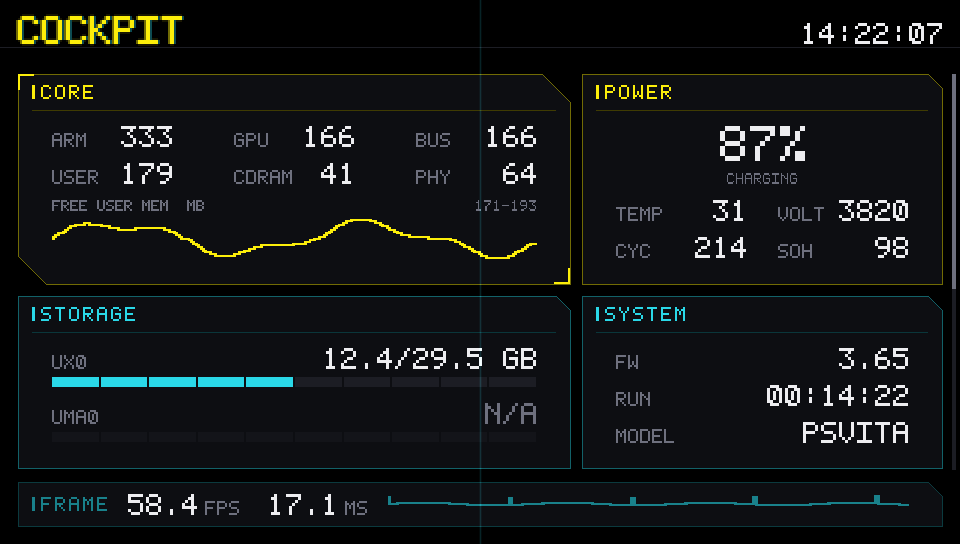
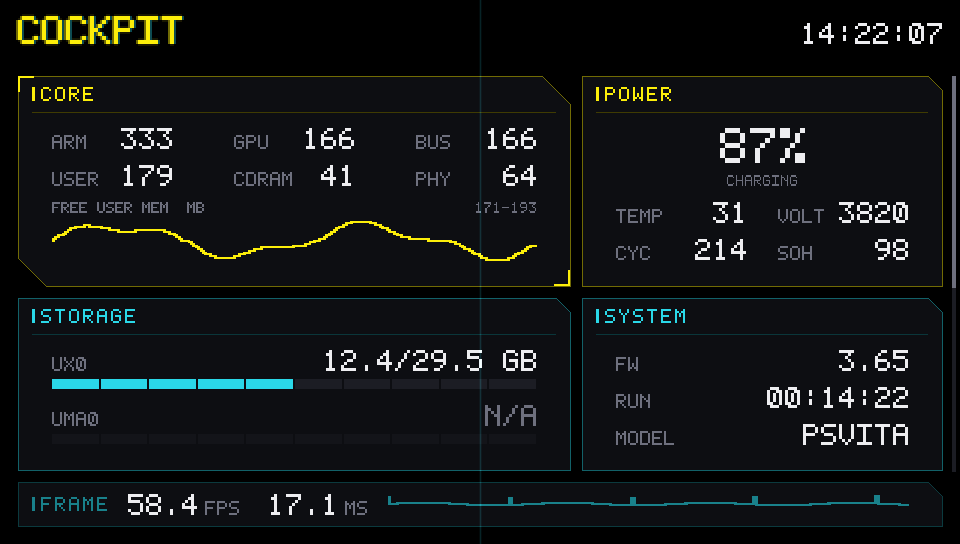
Inset the scroll band and drop the header hairline
CORE and POWER began exactly at the viewport top, where the 2 px outline
was half-clipped by the scissor, so the panels looked like they slid under
the header. The band now starts at 64, eight pixels below the hazard strip,
and carries a 12 px inset: panels begin at 76 with whole outlines, and both
panel rows still fit at scroll 0. The scroll range is unchanged because
VIEW_H grows by the inset.

The 1 px C_HAIR rule under the clock read as an unintended divider. The
hazard strip is now the header's only rule, and only on a fault. The
scrollbar track follows the content top rather than the band top.

Tests: 87 checks. Preview draw calls drop by one with the hairline gone.

diff --git a/vita-cockpit/src/app/screen.c b/vita-cockpit/src/app/screen.c
@@ -13,23 +13,24 @@
 
 static void draw_scrollbar(float scroll)
 {
-    int canvas_h = layout_canvas_height();
+    int total_h = layout_canvas_height() + VIEW_TOP_GAP;
+    float max_scroll = (float)layout_max_scroll();
 
-    if (canvas_h <= VIEW_H)
+    if (max_scroll <= 0.0f)
         return;
 
-    float track_h = (float)VIEW_H;
-    float thumb_h = track_h * (float)VIEW_H / (float)canvas_h;
-    float max_scroll = (float)layout_max_scroll();
-    float t = max_scroll > 0.0f ? scroll / max_scroll : 0.0f;
+    float track_y = (float)(VIEW_Y + VIEW_TOP_GAP);
+    float track_h = (float)(VIEW_H - VIEW_TOP_GAP);
+    float thumb_h = track_h * track_h / (float)total_h;
+    float t = scroll / max_scroll;
 
     if (t < 0.0f)
         t = 0.0f;
     if (t > 1.0f)
         t = 1.0f;
 
-    draw_rect(SCROLLBAR_X, (float)VIEW_Y, SCROLLBAR_W, track_h, C_HAIR);
-    draw_rect(SCROLLBAR_X, (float)VIEW_Y + t * (track_h - thumb_h), SCROLLBAR_W,
+    draw_rect(SCROLLBAR_X, track_y, SCROLLBAR_W, track_h, C_HAIR);
+    draw_rect(SCROLLBAR_X, track_y + t * (track_h - thumb_h), SCROLLBAR_W,
               thumb_h, C_DIM);
 }
 
@@ -48,7 +49,7 @@ void screen_draw(float t, float scroll)
         const PanelSlot *slot = &g_layout[i];
 
         Rect r = slot->rect;
-        r.y += (float)VIEW_Y - scroll;
+        r.y += (float)(VIEW_Y + VIEW_TOP_GAP) - scroll;
 
         /*
          * Off the band: the scissor would discard every pixel, so skip the

diff --git a/vita-cockpit/src/gfx/layout.h b/vita-cockpit/src/gfx/layout.h
@@ -18,9 +18,18 @@
  * the header or the status strip (D45).
  */
 #define VIEW_X 0
-#define VIEW_Y 74
+#define VIEW_Y 64
 #define VIEW_W 960
-#define VIEW_H 396
+#define VIEW_H 408
+
+/*
+ * Space between the top of the scrolling band and the first panel. A panel
+ * outline is 2 px thick, so a panel starting exactly at the band edge had its
+ * upper half clipped and looked like it began under the header. The header's
+ * painted content ends at the hazard strip (y 56); VIEW_Y leaves 8 px of air
+ * below it, and this inset keeps the panel outline whole.
+ */
+#define VIEW_TOP_GAP 12
 
 /* Distance from the screen edge to the panel area. */
 #define MARGIN 18

diff --git a/vita-cockpit/src/ui/header.c b/vita-cockpit/src/ui/header.c
@@ -20,7 +20,6 @@
 
 #define CLOCK_Y 23.0f
 
-#define HAIRLINE_Y 47.0f
 #define HAZARD_Y 48.0f
 #define HAZARD_H 8.0f
 
@@ -113,8 +112,6 @@ void header_draw(void)
 {
     draw_wordmark();
     draw_clock();
-
-    draw_rect(0.0f, HAIRLINE_Y, (float)SCREEN_W, 1.0f, C_HAIR);
 
     /* D15: only ever drawn for a real fault, and it never reflows the layout. */
     if (g_metrics.alert)

diff --git a/vita-cockpit/src/panels/registry.c b/vita-cockpit/src/panels/registry.c
@@ -95,7 +95,7 @@ int layout_canvas_height(void)
 
 int layout_max_scroll(void)
 {
-    int max = layout_canvas_height() - VIEW_H;
+    int max = VIEW_TOP_GAP + layout_canvas_height() - VIEW_H;
 
     return max > 0 ? max : 0;
 }

diff --git a/PROJECTS.md b/PROJECTS.md
@@ -23,7 +23,7 @@ after every job** — a job is not finished until this file reflects it.
 |---|---|---|---|---|
 | `vita-cap-test` | `built` | 2026-11-02 — artifact renamed to `cap-test-v<version>-b<build>.vpk` with an auto-incrementing build number | Run on hardware; confirm I/O, PCM audio, WiFi/DNS/HTTP | Unsafe `...0001`. 2.6 MB VPK. |
 | `vita-kernel-demo` | `built` | 2026-11-02 — artifact renamed to `kernel-demo-v<version>-b<build>.vpk`; the VPK CMake target is now interpolated from the artifact name | On-demand load test; confirm hook UID and the open counter | Not in `*KERNEL`. 3.65 NID unverified. |
-| `vita-cockpit` | `verified` | 2026-11-02 — plugin ledger groups by load target (D51) and prints N/A for unknown descriptions (D52); the 19-entry config shows KERNEL 9 / SYSTEM 8 / SYSTEM APPS 1 / ALL TITLES 1 | Flash b12 and confirm the grouped ledger and N/A rows on the OLED | `UNSAFE` default. 87 host checks. A 19-row render is 4,423 draw calls. |
+| `vita-cockpit` | `verified` | 2026-11-02 — UI fix (D53): header hairline removed and the scroll band inset 12 px, so the CORE/POWER outlines are whole and both panel rows fit at scroll 0 | Flash b13 and check the top gap, the missing divider, and the grouped ledger on the OLED | `UNSAFE` default. 87 host checks. 4,423 draw calls at 19 rows. |
 
 ---
 
@@ -33,12 +33,13 @@ Newest first. One line per job: date, project, what changed. Keep the board
 above as the summary; this is the history.
 
 Build numbers before 2026-11-02 predate the counter reset that pruned the stale
-VPKs; an old `b7`, or the `b10` in the 2026-11-02 storage-error entry, is not
-the `b8`/`b9`/`b12` built after it. The date and the entry around it
-distinguish them.
+VPKs; an old `b7`, or the `b10` in the 2026-11-02 storage-error entry, predates
+the counter reset. The date and the entry around it distinguish it from the
+current `b8`+ builds.
 
 | Date | Project | Change |
 |---|---|---|
+| 2026-11-02 | `vita-cockpit` | Removed the header hairline and inset the scrolling band by 12 px (band 64..472, content starts at 76), so CORE/POWER outlines are no longer clipped and both panel rows fit at scroll 0; scroll range unchanged (D53). |
 | 2026-11-02 | `vita-cockpit` | Grouped the plugin ledger by load target — KERNEL, SYSTEM, SYSTEM APPS, ALL TITLES, TITLES — with one row per file under its most privileged section (D51), and made an unknown description render `N/A` instead of a blank line (D52). Real 19-entry config: 9/8/1/1. 87 checks. |
 | 2026-11-02 | `vita-cockpit` | Fixed the plugin list dropping entries: `PLUGINS_MAX` 12 → 64, name field 32 → 48 and path 64 → 96, duplicates checked before the ceiling, and a `MORE PLUGINS NOT SHOWN` notice if the array ever fills (D50). A real 19-entry config now parses 19/19; 74 checks. |
 | 2026-11-02 | workspace | Published the workspace to `github.com/upakul/vitahomebrew`: root `README.md`, MIT `LICENSE`, and a `.gitignore` that excludes the SDK, build output, crash dumps, and the third-party parser clone. |

diff --git a/vita-cockpit/docs/DECISIONS.md b/vita-cockpit/docs/DECISIONS.md
@@ -890,3 +890,27 @@ empty, which pins the boundary between data and presentation.
 **Rejected:** writing `N/A` into `PluginInfo.desc` during the scan. It would
 make an unknown plugin indistinguishable from one whose catalog text is
 literally "N/A", and it puts UI copy in the sampling layer.
+
+## D53 — Inset the scrolling band, and drop the header hairline
+
+**Status:** Accepted
+**Context:** CORE and POWER started at the viewport top (y 74), exactly where
+the 2 px panel outline is drawn. The scissor cut the upper half of that outline,
+so the two panels looked like they continued under the header. A 1 px `C_HAIR`
+rule at y 47 also ran under the clock and read as an unearned divider; the
+header's only rule should be the hazard strip, and only on a fault.
+**Decision:** The scroll band starts at y 64, eight pixels below the hazard
+strip, and ends at 472. Content is inset by `VIEW_TOP_GAP` (12), so the first
+panel begins at screen y 76 with a whole outline. `layout_max_scroll()` adds the
+inset, which keeps the scroll range identical to the old 396 px band. The
+scrollbar track starts at the content top (76), not the band top. The hairline
+is deleted; `header_draw()` paints the wordmark, the clock, and the hazard strip
+only.
+**Consequence:** At scroll 0 the two-row canvas sits at 76..470, with 12 px of
+air before the FRAME strip at 482. While scrolling, content clips at 64, eight
+pixels below the hazard, and the inset scrolls away. `C_HAIR` remains the
+scrollbar track and the empty meter cell, nothing else.
+**Rejected:** raising `VIEW_Y` while keeping the band 396 px tall. The outline
+would be clipped at the new edge, and shrinking `VIEW_H` to compensate would cut
+the bottom of STORAGE and SYSTEM at scroll 0. Moving FRAME down would buy the
+room from the bottom margin the layout already spends.

diff --git a/vita-cockpit/docs/DESIGN.md b/vita-cockpit/docs/DESIGN.md
@@ -50,7 +50,7 @@ appears twice.
 
 | Region | x | y | w | h |
 |---|---|---|---|---|
-| Header | 0 | 0 | 960 | 74 |
+| Header | 0 | 0 | 960 | 64 |
 | CORE | 18 | 0 | 552 | 210 |
 | POWER | 582 | 0 | 360 | 210 |
 | STORAGE | 18 | 222 | 552 | 172 |
@@ -59,11 +59,14 @@ appears twice.
 | FRAME | 18 | 482 | 924 | 44 | (pinned, screen coords) |
 
 Panel `y` is canvas coordinates; the app offsets them by the scroll and clips to
-the viewport at y 74..470. The canvas is `406 + plugins_panel_height() + 12`:
+the band at y 64..472. The band carries a 12 px top inset, so the first panel
+starts at screen y 76 and its outline is whole; the inset scrolls away. The
+canvas is `406 + plugins_panel_height() + 12`:
 729 for the four-plugin preview (two groups), 1,581 for the nineteen-plugin
 console config (four groups).
 
-Constants: `MARGIN 18`, `GAP 12`, `SP_3 12`. Both columns share both seams --
+Constants: `MARGIN 18`, `GAP 12`, `SP_3 12`, `VIEW_TOP_GAP 12`. Both columns
+share both seams --
 row one is 210 tall, row two 172 -- so the 12 px gap between the rows runs
 unbroken across the screen and both columns end at canvas y 394. The strip
 begins at screen y 482 and ends at 526, leaving an 18 px bottom margin.
@@ -111,7 +114,7 @@ else must shrink.
 |---|---|---|
 | `C_FIELD` | `#000000` | screen field |
 | `C_PANEL` | `#0D0E12` | panel fill |
-| `C_HAIR` | `#1C1D24` | hairlines, empty meter cells |
+| `C_HAIR` | `#1C1D24` | scrollbar track, empty meter cells |
 | `C_DIM` | `#6E707E` | labels, absent values |
 | `C_WHITE` | `#EDEDF0` | numeric values |
 | `C_YELLOW` | `#FCEE0A` | primary — wordmark, hero accents |

diff --git a/agent-wiki/13-fact-check.md b/agent-wiki/13-fact-check.md
@@ -75,12 +75,13 @@ untested.
 
 | Check | Result |
 |---|---|
-| App build | Success, 89 KB VPK (b12) |
+| App build | Success, 89 KB VPK (b13) |
 | Auth ID | `0x2F00000000000001` (UNSAFE default, D42); `0x2F00000000000002` with `--safe` |
 | Imports | `ScePower`, `SceSysmem`, `SceIofilemgr`, `SceKernelModulemgr`, `SceRtc`, `SceCtrl`, `SceLibKernel`; `SceDisplay`, `SceGxm`, `SceSysmodule`, `SceAppMgr`, `SceCommonDialog` via libvita2d |
 | Host tests | 87 checks, 0 failures (`tools/test/run.sh`) |
 | Plugin list | `[V]` a real 19-entry config parses 19/19 and groups as KERNEL 9 / SYSTEM 8 / SYSTEM APPS 1 / ALL TITLES 1; tests cover comments, long names, section mapping, priority merge, the 64-entry ceiling and its notice |
 | Host preview render | Four states rendered through the shipped composition (`tools/preview/run.sh`) |
+| Header and band | `[V]` host preview: no header hairline; band 64..472 with a 12 px inset, content at 76; both panel rows fit at scroll 0 (D53) |
 | Plugin descriptions | 155 rows: every AutoPlugin2 Vita catalog path plus iTLS, libshacccg, YAMT and HENkaku; 10 rows marked `[C]` for missing or corrected text |
 | Runtime | `[V]` 2026-11-02: all panels render on the 3.65 console |
 | `SceIoDevInfo` | Uses the SDK type, 24 bytes, not the 16-byte community struct |

diff --git a/vita-cockpit/docs/PROJECT.md b/vita-cockpit/docs/PROJECT.md
@@ -82,7 +82,7 @@ makes "which build is on the Vita?" answerable.
 The artifact is named:
 
 ```
-build/cockpit-v<version>-b<build>.vpk        e.g. cockpit-v01.00-b12.vpk
+build/cockpit-v<version>-b<build>.vpk        e.g. cockpit-v01.00-b13.vpk
 ```
 
 | Part | Source | Changes |
@@ -130,7 +130,7 @@ community knowledge.
 | `sceIoDevctl("ux0:", 0x3001, …)` command | `[V]` `psp2/io/devctl.h` demonstrates it verbatim |
 | Storage result unit (bytes) | `[C]` — the one claim still unconfirmed |
 | Device model codes | `[V]` `psp2common/kernel/sysmem.h` |
-| Screen layout and typography | `[V]` host preview render, four states |
+| Screen layout and typography | `[V]` host preview render, four states; CORE/POWER outlines whole at scroll 0 (D53) |
 | Renders on hardware | `[V]` 2026-11-02: text, clocks, memory, power, identity and frame all draw on the console |
 | STORAGE reads | `[V]` both volumes report on hardware under `UNSAFE` (D42); `ux0:` also works on the safe build via `sceAppMgrGetDevInfo` (D38) |
 | Behaviour not listed above | unverified |

diff --git a/vita-cockpit/README.md b/vita-cockpit/README.md
@@ -62,7 +62,7 @@ description catalog keeps its row and says `N/A`.
 ./build.sh --safe     # restricted eboot, marked -safe in the filename
 ```
 
-Produces `build/cockpit-v<version>-b<build>.vpk`, e.g. `cockpit-v01.00-b12.vpk`.
+Produces `build/cockpit-v<version>-b<build>.vpk`, e.g. `cockpit-v01.00-b13.vpk`.
 The build number counts distinct builds and is kept in `BUILD_NUMBER`: unchanged
 sources reuse the number, and only the newest VPK is kept (D46). Upload it with:
 

diff --git a/agent-wiki/12-projects.md b/agent-wiki/12-projects.md
@@ -255,7 +255,7 @@ cd vita-cockpit
 ./build.sh
 ```
 
-Output: `build/cockpit-v<version>-b<build>.vpk` (e.g. `cockpit-v01.00-b12.vpk`).
+Output: `build/cockpit-v<version>-b<build>.vpk` (e.g. `cockpit-v01.00-b13.vpk`).
 `build.sh` counts distinct builds in `BUILD_NUMBER`: unchanged sources reuse the
 number, and only the newest VPK is kept (D46). Upload it with `./send.sh <vita-ip>`.
 

diff --git a/vita-cockpit/docs/ARCHITECTURE.md b/vita-cockpit/docs/ARCHITECTURE.md
@@ -222,7 +222,7 @@ extern const int g_layout_count;
 /* Height of the scrolling canvas, derived from the lowest panel edge. */
 int layout_canvas_height(void);
 
-/* Largest valid scroll offset: the canvas height minus one viewport. */
+/* Largest valid scroll offset: the padded canvas minus one viewport. */
 int layout_max_scroll(void);
 
 /* Resize the self-sizing PLUGINS region. */
